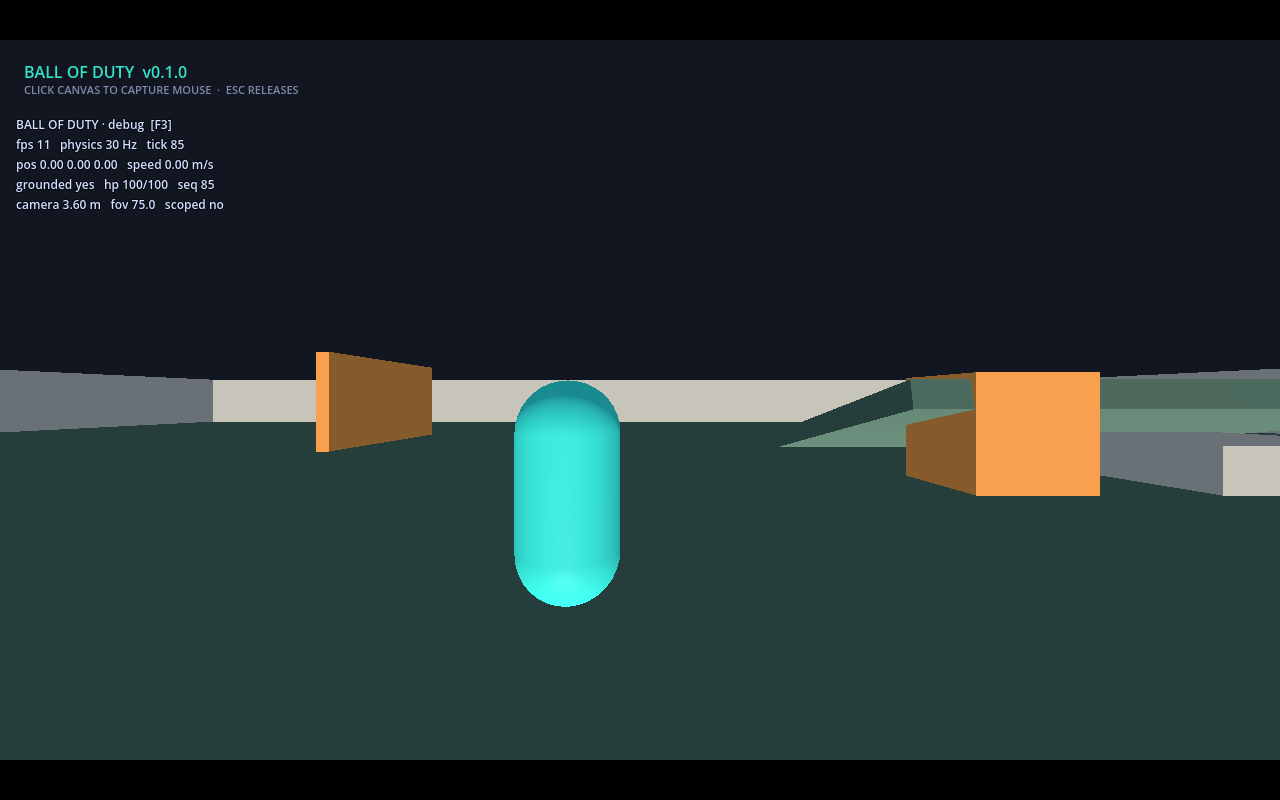
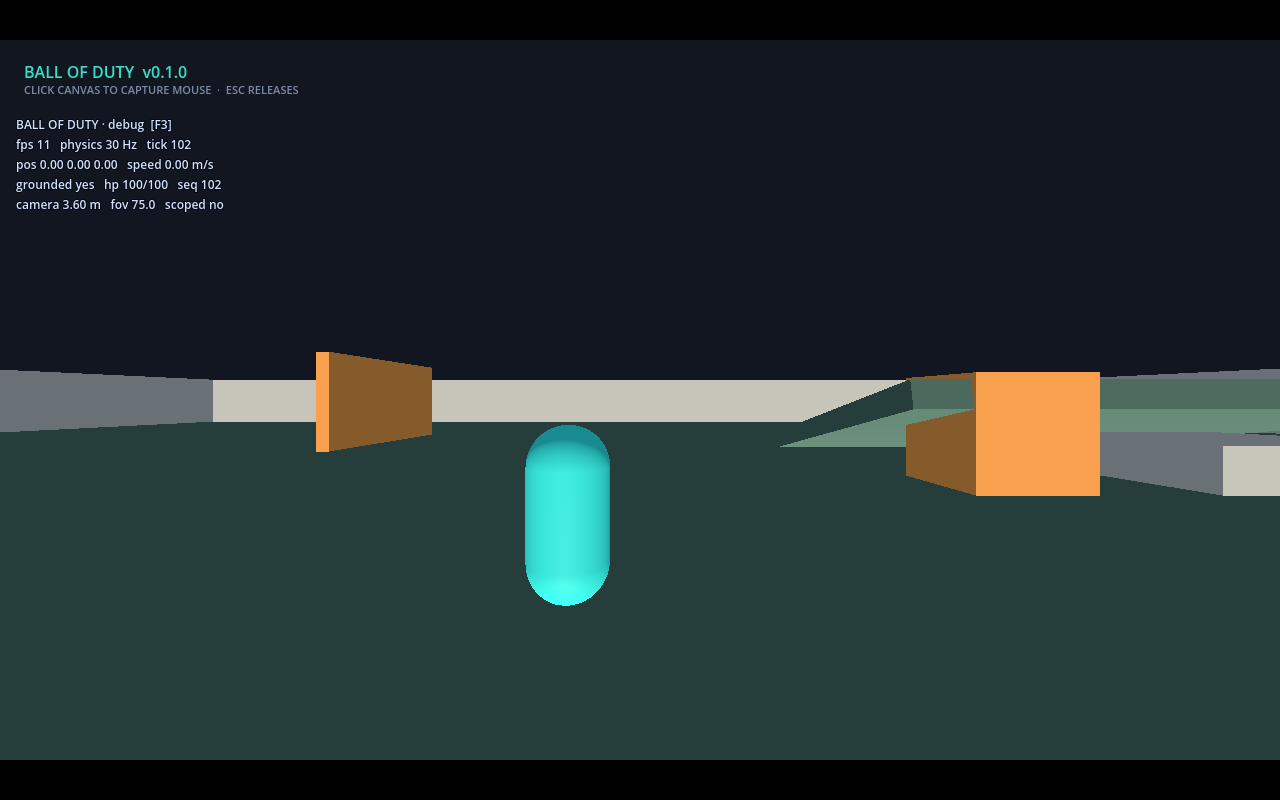
CP1 feedback: +10% jump height, 20% smaller character, feedback backlog

Changed region(s): [[0.375, 0.4688, 0.5, 0.75], [0.1562, 0.2188, 0.1875, 0.25], [0.125, 0.1562, 0.1562, 0.1875]]

diff --git a/docs/BACKLOG.md b/docs/BACKLOG.md
@@ -1,0 +1,37 @@
+# Backlog & feedback log
+
+Short-horizon changes and long-horizon recommendations. Roadmap phases and gates live in
+[`ROADMAP.md`](./ROADMAP.md); this file is the working list so nothing gets lost.
+
+Status: `todo` · `doing` · `done` · `deferred`
+
+## Short term (next builds)
+
+| # | Item | Decision / target | Status | Phase |
+|---|---|---|---|---|
+| S1 | Jump height +10 % | `jump_velocity` 7.00 → **7.34** (apex 1.23 m → **1.35 m**) | done | CP1 |
+| S2 | Character 20 % smaller | Physical capsule, mesh, hurtboxes scaled to 0.8; camera framing unchanged for now | done | CP1 |
+| S3 | Re-check camera after shrink | Character is smaller at the same 3.6 m / 1.55 m framing — decide whether to lower pivot to ~1.35 m and shorten arm to ~3.2 m | doing | CP1 |
+| S4 | Re-check speed after shrink | 5.6 m/s on a 1.36 m character reads faster; only change if feel demands it | todo | CP1/CP2 |
+| S5 | Map scale | Grey-box 60×60 m is a test arena, **not** final scale. Design the CP2 arena larger (target 90–120 m playable, or a layout with distinct arenas); keep current for feel tests | todo | CP2 |
+| S6 | Jump floatiness | Deferred by request. Current airtime is unchanged conceptually; fixing requires retuning gravity, jump velocity, air control and maybe fall curves together | deferred | CP2 |
+
+## Long term (record now, decide later)
+
+| # | Item | Why / notes | Status |
+|---|---|---|---|
+| L1 | Proper jump physics pass | Derive height/airtime from `v²/2g` and `2v/g`; evaluate higher gravity + higher jump velocity, asymmetric fall, terminal velocity, coyote/buffer curves; aim for a snappy platformer-shooter feel without changing the +10 % height target | todo |
+| L2 | Character scale system | Move capsule/mesh/hurtbox/camera dimensions into a `PlayerStats`/`CharacterBody` resource so size is data-driven and shared with the server | todo |
+| L3 | Camera framing pass | After character shrink: distance, shoulder, pivot height, ADS shoulder offset, collision smoothing, FOV feel; keep a “wide” and “tight” preset | doing |
+| L4 | Larger map performance | Bigger arena affects draw calls, occlusion, LOD, fog, spawn distances and web load budget; measure with CP2 reference device | todo |
+| L5 | Movement set | Add slide/dash/roll later only if the core loop needs it; do not add before netcode so prediction scope stays small | deferred |
+| L6 | Settings UI | Expose sensitivity, invert Y, scope scale, volume, quality in CP5; persistence already exists | todo |
+| L7 | Animation / stride | Character shrink makes stride more visible; add run/jump/fall states from replicated state flags | todo |
+| L8 | Server parity | Character scale, hurtboxes, camera-independent stats, jump values must come from the same resources on client and server | todo |
+| L9 | Browser matrix | Real Firefox/Safari, low-end laptop, 720p/60 target (CP5) | todo |
+| L10 | CI remote | GitHub/GitLab remote for the first green pipeline run | todo |
+
+## Changelog
+
+- **2026-10-28 — CP1 feedback:** jump apex +10 %; character −20 %; map-scale and jump-floatiness
+  comments recorded. Camera/speed held constant so the next feel pass isolates the size change.

diff --git a/README.md b/README.md
@@ -66,6 +66,7 @@ res://
 
 - [`docs/ROADMAP.md`](docs/ROADMAP.md) — revised sequencing, Phase 4 split, acceptance criteria
 - [`docs/PLAN.md`](docs/PLAN.md) — execution plan, subagent usage, how you can help
+- [`docs/BACKLOG.md`](docs/BACKLOG.md) — short-term feedback and long-term recommendations
 - [`docs/ARCHITECTURE.md`](docs/ARCHITECTURE.md) — authority model, layers, events, directories
 
 ## License
